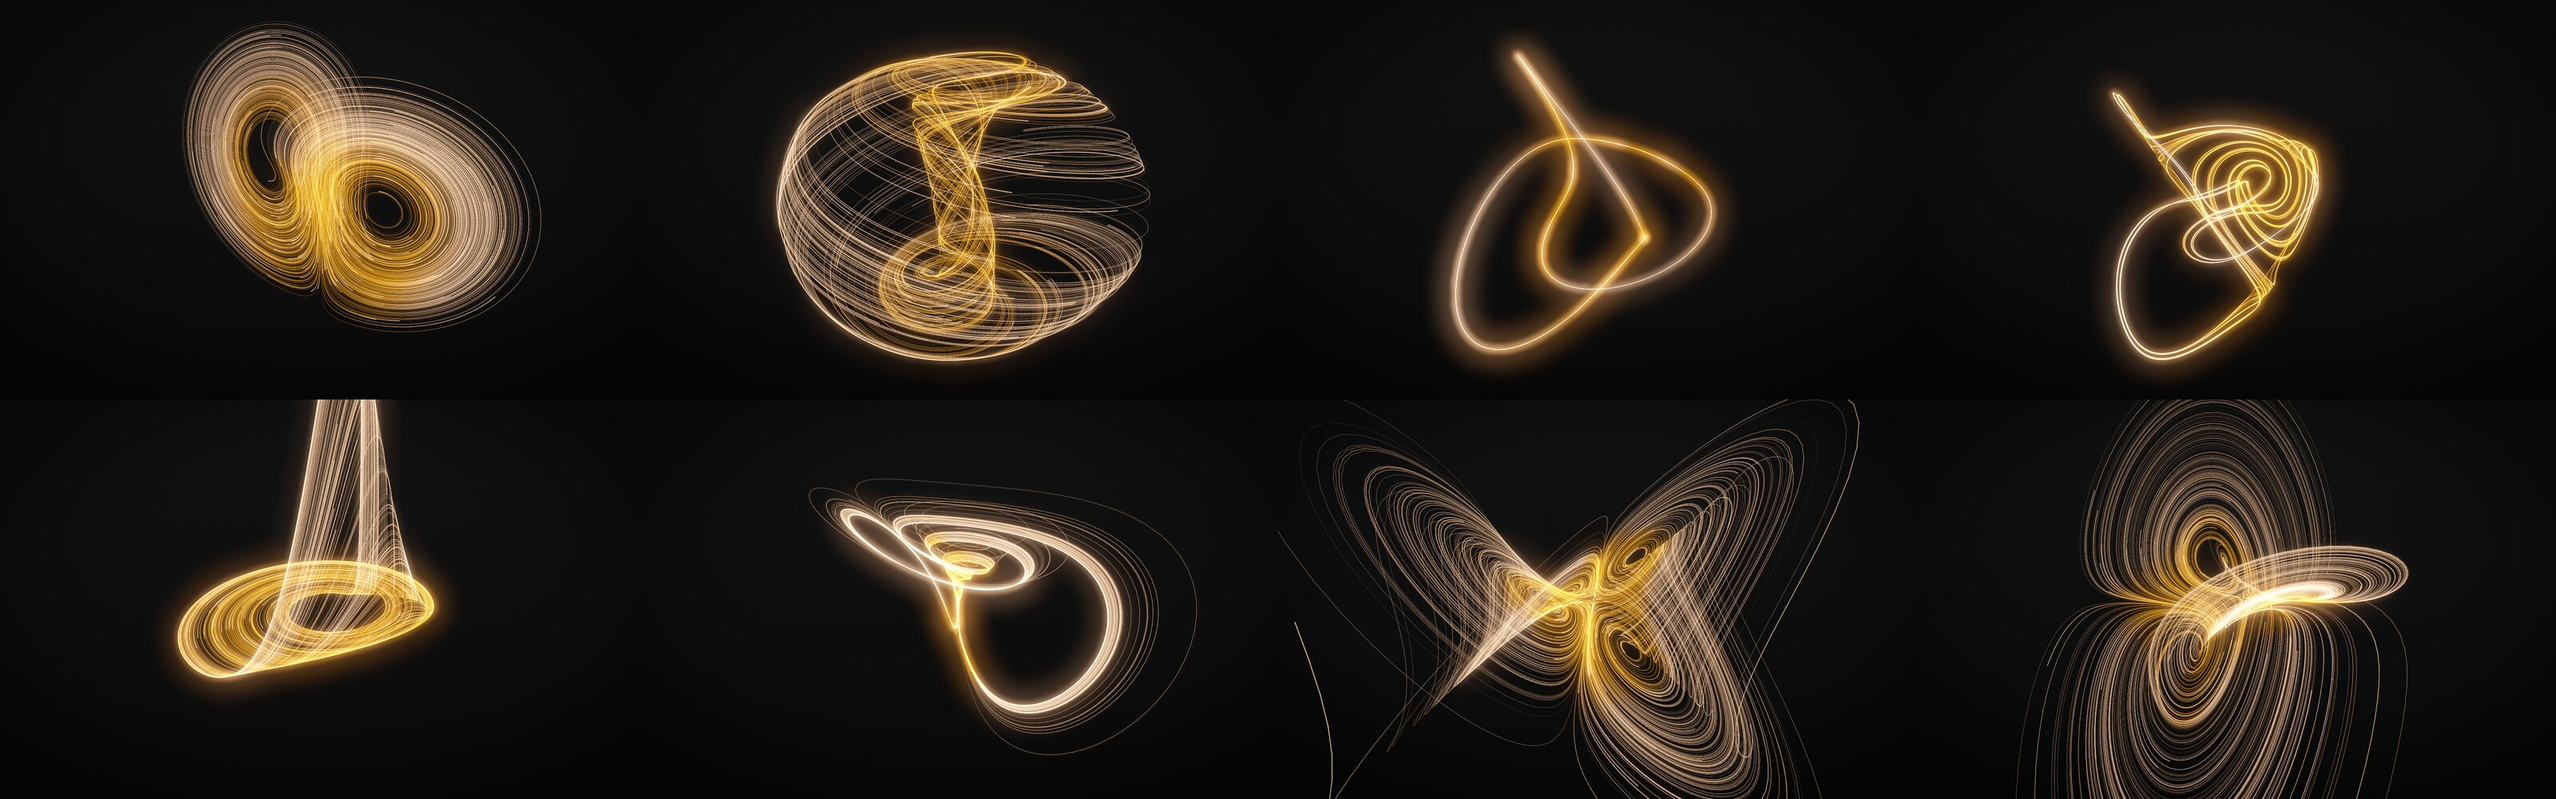
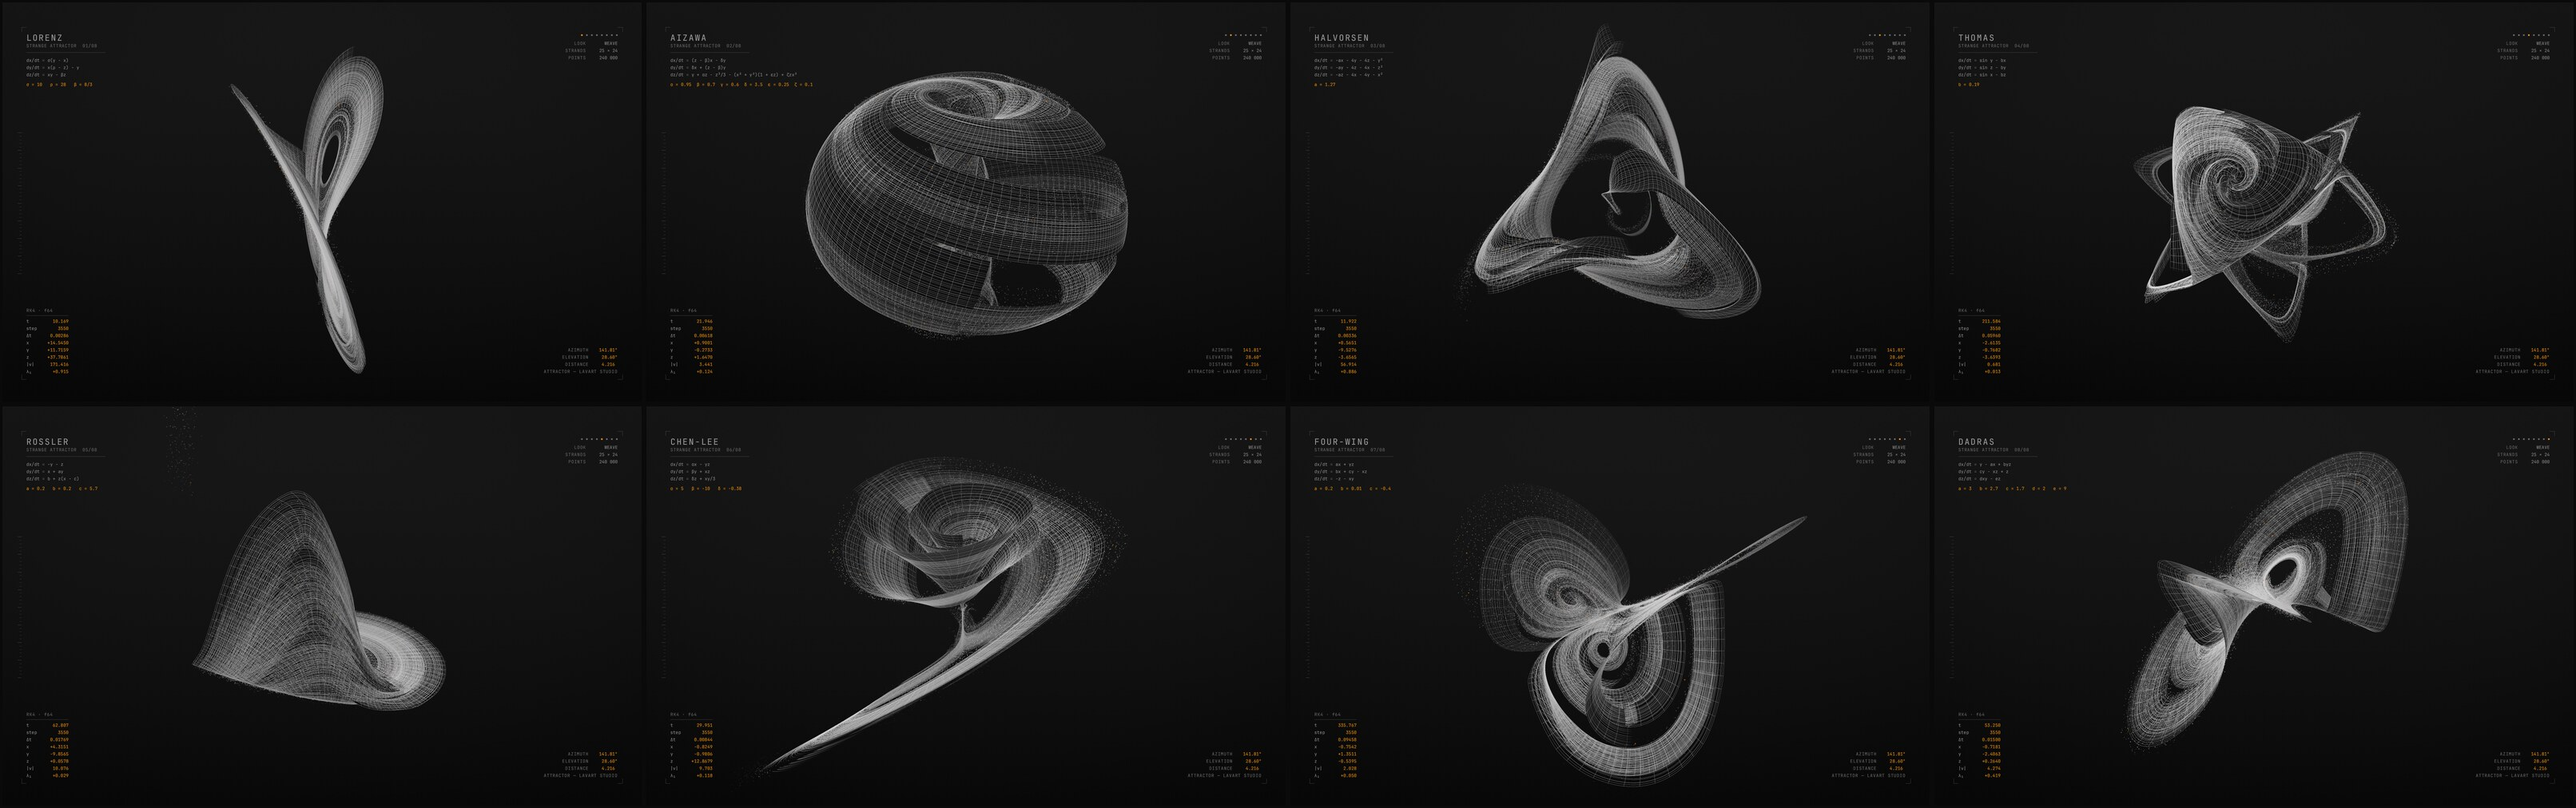
Document the looks, annotations and new settings

diff --git a/README.md b/README.md
@@ -2,17 +2,19 @@
 
 Strange attractors as a **live wallpaper** and a **screensaver** for [Omarchy](https://omarchy.org), by lAvArt Studio.
 
-Thousands of points are integrated through the Lorenz, Aizawa, Halvorsen, Thomas, Rössler, Chen-Lee, four-wing and
-Dadras systems and drawn as glowing ribbons while a slow camera orbits them. Every few minutes one attractor fades out
-and the next is born from a single point and grows into its shape.
+Hundreds of orbits are integrated through the Lorenz, Aizawa, Halvorsen, Thomas, Rössler, Chen-Lee, four-wing and
+Dadras systems and drawn as what a strange attractor really is, a folded sheet: neighbouring orbits are kept side by
+side in ribbons, so the picture is a fine weave of hairlines with near folds hiding far ones, not a tangle of loose
+trails. A slow camera orbits it, the system's equations and live numbers sit quietly in the margins, and every few
+minutes one attractor fades out and the next grows in.
 
 ![Eight attractors](docs/media/systems.jpg)
 
 ## Two modes, one binary
 
 - **Wallpaper** (`attractor --wallpaper`): a `wlr-layer-shell` surface on the *bottom* layer, above Omarchy's own
-  background and below every window. Clicks pass straight through to the desktop. It renders at half resolution and
-  30 fps (20 on battery) and **pauses itself** when it cannot be seen: a fullscreen window, a locked session, or a
+  background and below every window. Clicks pass straight through to the desktop. It renders at the panel's native
+  resolution, at 30 fps (20 on battery), and **pauses itself** when it cannot be seen: a fullscreen window, a locked session, or a
   sleeping monitor.
 - **Screensaver** (`attractor`): a fullscreen window using Omarchy's screensaver class, so the idle service still locks on
   time; any key, click or mouse movement dismisses it, and so does losing focus (a workspace switch), so a saver nobody can
@@ -32,44 +34,70 @@ cargo build --release --locked --target-dir ~/.cache/attractor/build \
 omarchy plugin enable io.github.lavart.attractor
 ```
 
-Try it without the plugin: `attractor --bench 300`, `attractor --windowed`, `attractor --keep` (a screensaver that ignores input), `attractor --wallpaper`, or render a still with
+Try it without the plugin: `attractor --bench 150`, `attractor --windowed`, `attractor --keep` (a screensaver that ignores input), `attractor --wallpaper`, or render a still with
 `attractor --shot out.png --system lorenz --size 1920x1080 --secs 30`.
 
 ## Looks
 
 | preset | |
 |---|---|
-| `theme` (default) | **follows the system theme**: its ground, hairlines in its foreground, its accent on the fastest strands. Dark themes get light lines, light themes dark ink. Switch theme and it crossfades to the new colours, no restart |
-| `matte` | flat lines in the theme's accent on its dark ground |
-| `pale` | pale brushed-metal ribbons on white paper, after the *Strange Attractors* poster series |
-| `graphite` | dark grey shades, charcoal to soft grey, on the same pale studio ground |
-| `neon` | violet to cyan to pink light on near-black |
-| `lavart` | the Twinise cyan |
-| `deformation` | amber light over teal-green concrete, after the *Lorenz Deformation* renders |
-| `ink` | stark dark ink on white paper |
+| `theme` (default) | the `weave`, in the system theme's colours |
+| `weave` | a wireframe of the sheet: hairlines along the flow and across it, coming apart into dust where the trails end |
+| `contour` | fine parallel lines along the flow, like the contours of a relief, brightest where the sheet faces the light, with a shallow depth of field |
+| `stipple` | a halftone: dots whose size is the light, each at its own fixed place so nothing beats or shimmers |
+| `dust` | grains scattered through the sheets, sharp in the focal plane and soft discs before and behind it |
+| `80s` | a vector display: a hidden-line wireframe in magenta and cyan over a banded sun and a grid, scanlines, chunky text |
+| `90s` | early computer graphics: flat-shaded ribbons in a coarse picture of about 400 lines (640x400 on a 3200x2000 panel) scaled up in whole pixels and dithered down to 216 colours, over copper bars |
 
-![Presets](docs/media/presets.jpg)
+![Looks](docs/media/looks.jpg)
+
+`attractor --looks` lists them. Every look follows the system theme (dark themes get light lines on their ground, light
+themes ink on paper; the shaded side of the form is a deeper tint of the same hue, never a step toward black) except
+`80s` and `90s`, whose colours are the point. `"palette": "original"` gives any look the colours of the picture it is
+after (mint on indigo for `contour`, silver on black for `weave`...), and `"palette": "theme"` tints the two period
+looks from the theme too.
+
+![Themes](docs/media/themes.jpg)
 
 ## Following the theme
 
-The default look reads the active Omarchy theme (`colors.toml`) and watches it, with a single `stat` once a second. When the
-theme changes, the ground and the lines crossfade to the new palette over a moment, in the wallpaper and the screensaver
-alike, even while a fullscreen window has paused the drawing. Nothing needs restarting.
+The looks read the active Omarchy theme (`colors.toml`) and watch it, with a single `stat` once a second. When the theme
+changes, the ground, the lines and the annotations crossfade to the new palette over a moment, in the wallpaper and the
+screensaver alike, even while a fullscreen window has paused the drawing. Nothing needs restarting.
+
+## Annotations
+
+Around the edges, clear of the bar and the dock: the running attractor's name, its equations with the parameter values
+actually used, and numbers read from the integration a few times a second: time, step count and step size, the position
+and speed of one orbit in the system's own coordinates, the camera, and a running estimate of the largest Lyapunov
+exponent λ₁ (Benettin's method: a second orbit a hair away from a reference one, renormalised every step; for Lorenz it
+settles near the textbook 0.906). They fade with the attractor they describe and follow the theme. `"annotations": false`
+turns them off. The font is the system's monospace font (`fc-match monospace`); set `ATTRACTOR_FONT` to a `.ttf` to use
+another.
 
 ## Performance
 
-Measured offscreen on an Iris Xe (`attractor --bench 300 [--wallpaper] [--size WxH]`), GPU milliseconds per frame:
+Measured offscreen on an Iris Xe on mains (`attractor --bench 150 [--wallpaper] [--size WxH] [--preset NAME]`, best of
+four runs), GPU milliseconds per frame at 3200x2000:
 
-| | per frame |
-|---|---|
-| wallpaper, 1600x1000 (the default: a 2x panel's logical size) | 1.6 ms, about 5% of the GPU at 30 fps |
-| wallpaper, native 3200x2000 (`"hidpi": true`) | 2.2 ms |
-| screensaver, 3200x2000 | 3.3 ms at 60 fps |
+| look | wallpaper | screensaver |
+|---|---|---|
+| `weave` (default) | 2.4 - 2.6 ms (600 strands) | 3.7 ms (960 strands) |
+| `contour` | 2.9 ms | 4.5 ms |
+| `stipple` | 2.7 ms | 4.2 ms |
+| `dust` | 3.2 ms | 4.9 ms |
+| `80s` | 2.8 ms | 2.9 ms |
+| `90s` | 1.3 ms | 1.0 ms |
 
-How: the wallpaper renders at the monitor's *logical* resolution and lets the compositor scale it, since the final
-full-resolution pass is memory-bandwidth bound; ribbons are single triangle strips; the older half of every trail is drawn
-at half density; the dither is one cheap hash; and nothing is drawn at all while the wallpaper is hidden. Live, the
-service's wallpaper uses about 1% of one core and 28 MB.
+For scale: the previous renderer (256 trails) took 1.5 - 1.9 ms for its wallpaper when drawing the scene at half size and
+2.0 - 2.3 ms at true native size on the same machine in the same sessions. Timings on a laptop in use vary by a third
+from one minute to the next; these are the better runs.
+
+How: everything is one render pass straight into the output, with no intermediate full-size texture; lines are single
+triangle strips, anti-aliased analytically instead of by multisampling; the older, fainter part of every strand is drawn
+with every other point; the sheets that do the hiding are wide strips written to depth only; and nothing is drawn at all
+while the wallpaper is hidden. On a weaker GPU set `"hidpi": false` (wallpaper: logical pixels, scaled by the compositor)
+or a `render_scale` below 1; both soften the lines.
 
 ## Your logo
 
@@ -109,33 +137,61 @@ must be converted to paths. Only the shapes and their opacity matter unless you 
   "system": "cycle",
   "saver": "auto",
   "wallpaper": true,
-  "wallpaper_options": { "fps": 30, "speed": 0.7, "overlay": false },
-  "saver_options": { "preset": "neon", "fps": 60 }
+  "annotations": true,
+  "wallpaper_options": { "fps": 30, "speed": 0.7 },
+  "saver_options": { "preset": "dust", "fps": 60 }
 }
 ```
 
 | key | default | |
 |---|---|---|
 | `preset` | `theme` | see Looks |
+| `palette` | `auto` | `theme`, `original`, or `auto` (the theme, except for `80s` and `90s`) |
+| `annotations` | `true` | the equations and live numbers in the margins |
 | `system` | `cycle` | an attractor's name (`attractor --list`), or `cycle` to rotate through all |
 | `cycle` | 150 / 90 | seconds on each attractor (wallpaper / screensaver) |
 | `saver` | `auto` | `on`, `off`, or `auto`: on unless Gridfall is enabled, so two screensavers never race on idle |
 | `wallpaper` | `true` | run the live wallpaper |
-| `hidpi` | `false` | wallpaper only: render at the monitor's native pixels instead of logical ones (crisper, ~1.4x the cost on a 2x panel) |
-| `overlay` | `false` | wallpaper only: draw the trails with transparency over the desktop wallpaper instead of on their own ground |
-| `fps`, `speed`, `trails`, `length`, `width`, `zoom`, `intensity`, `bloom`, `render_scale` | per mode | look and cost |
+| `width` | `1` | a multiplier on the look's line and dot sizes: `0.8` is finer, `1.5` bolder. (It used to be a width in pixels; the looks' own weights are now hairlines, about one physical pixel on a 2x panel) |
+| `intensity` | `1` | a multiplier on the opacity of the lines and dots |
+| `trails`, `strands`, `length` | per look | how many strands in all, how many of them make a ribbon, and how many points each remembers: detail and cost |
+| `hidpi` | `true` | wallpaper only: `false` renders at logical pixels and lets the compositor scale (cheaper, softer) |
+| `render_scale` | `1` | draw the scene smaller and scale it up (cheaper, softer) |
+| `overlay` | `false` | wallpaper only: draw over the desktop wallpaper instead of on the look's own ground |
+| `fps`, `speed`, `zoom` | per mode | |
 | `gpu` | `low` | `high` uses the discrete GPU; leave it on `low` on hybrid laptops |
 
 `wallpaper_options` and `saver_options` override any of the above for that mode only. `ATTRACTOR_PRESET`,
-`ATTRACTOR_SYSTEM` and `ATTRACTOR_GPU` override the config for a single run.
+`ATTRACTOR_PALETTE`, `ATTRACTOR_SYSTEM` and `ATTRACTOR_GPU` override the config for a single run; `ATTRACTOR_THEME` points
+at a `colors.toml` other than the active theme's. The old `bloom` key and the old preset names are ignored (an unknown
+preset draws the default look).
 
 ## How it works
 
-Each attractor is integrated on the CPU in f64 with RK4 and fitted automatically to the unit ball (centre, radius and
-step size are measured from a warm-up orbit, so there are no hand-tuned scales). Hundreds of trails keep a ring of their
-latest points; each frame only the newly computed points are uploaded to a GPU storage buffer. The vertex shader reads
-that ring and expands every segment into a screen-space ribbon, a two-level bloom adds the glow, and the composite
-dithers by one 8-bit step so the gradient ground never bands.
+Each attractor is integrated on the CPU in f64 with RK4 and fitted automatically to the screen (centre, radius and step
+size are measured from a warm-up orbit, so there are no hand-tuned scales).
+
+**Ribbons.** Strands are grouped into ribbons of neighbours that start a hair apart along a short curve. Chaos would
+pull them apart exponentially; instead each ribbon is held to a constant width the way a Lyapunov vector is
+renormalised: every step its strands are slid a little along the curve they form, toward the middle and toward their
+own places on it, and slid along their own orbits so the ribbon's leading edge stays square to the flow. The ribbon
+therefore lies along the attractor's stretching direction and sweeps out a band of the folded sheet, and strand k stays
+next to strand k+1, which is what lets a surface, cross-lines and a hiding sheet be drawn between them. Where the flow
+tears a ribbon in two (the Lorenz saddle sends one half to each wing) the smaller half thins away and grows again beside
+the half that stayed. The cost of this is honesty of a specific kind: the strands are orbits that are nudged sideways by
+a fraction of a step each step, so they trace the sheet faithfully but are not, point for point, solutions of the
+equations. They also run on a rescaled clock (slowed where the flow is fast, hurried where it is slow) so that steps are
+nearly equal in length and fast loops are not drawn with a few straight pieces. The numbers in the margins come from a
+separate, untouched orbit on the true clock.
+
+**Drawing.** Every strand keeps a ring of its latest points; each frame only the newly computed points are uploaded to
+a GPU storage buffer. The vertex shader reads that ring and widens every point of a strand into one continuous triangle
+strip with a shared tangent at each point, so there are no joints to gap, overlap or bead. The fragment shader computes
+exact coverage (a pixel-wide box against the line), so a hairline thinner than a pixel dims instead of breaking into
+dots, and depth of field is the same formula with a wider box: nothing is multisampled and nothing is blurred
+afterwards. Strips between neighbouring strands are written to the depth buffer so near folds hide far ones; far
+strands sink toward the ground colour. Strand spacing is deliberately uneven and dots sit at fixed, hashed offsets, so
+regular marks never beat against the pixel grid.
 
 Remote control: `omarchy-shell attractor preview` starts the screensaver now, `omarchy-shell attractor status` reports
 the state, `omarchy-shell attractor restart` restarts the wallpaper.
